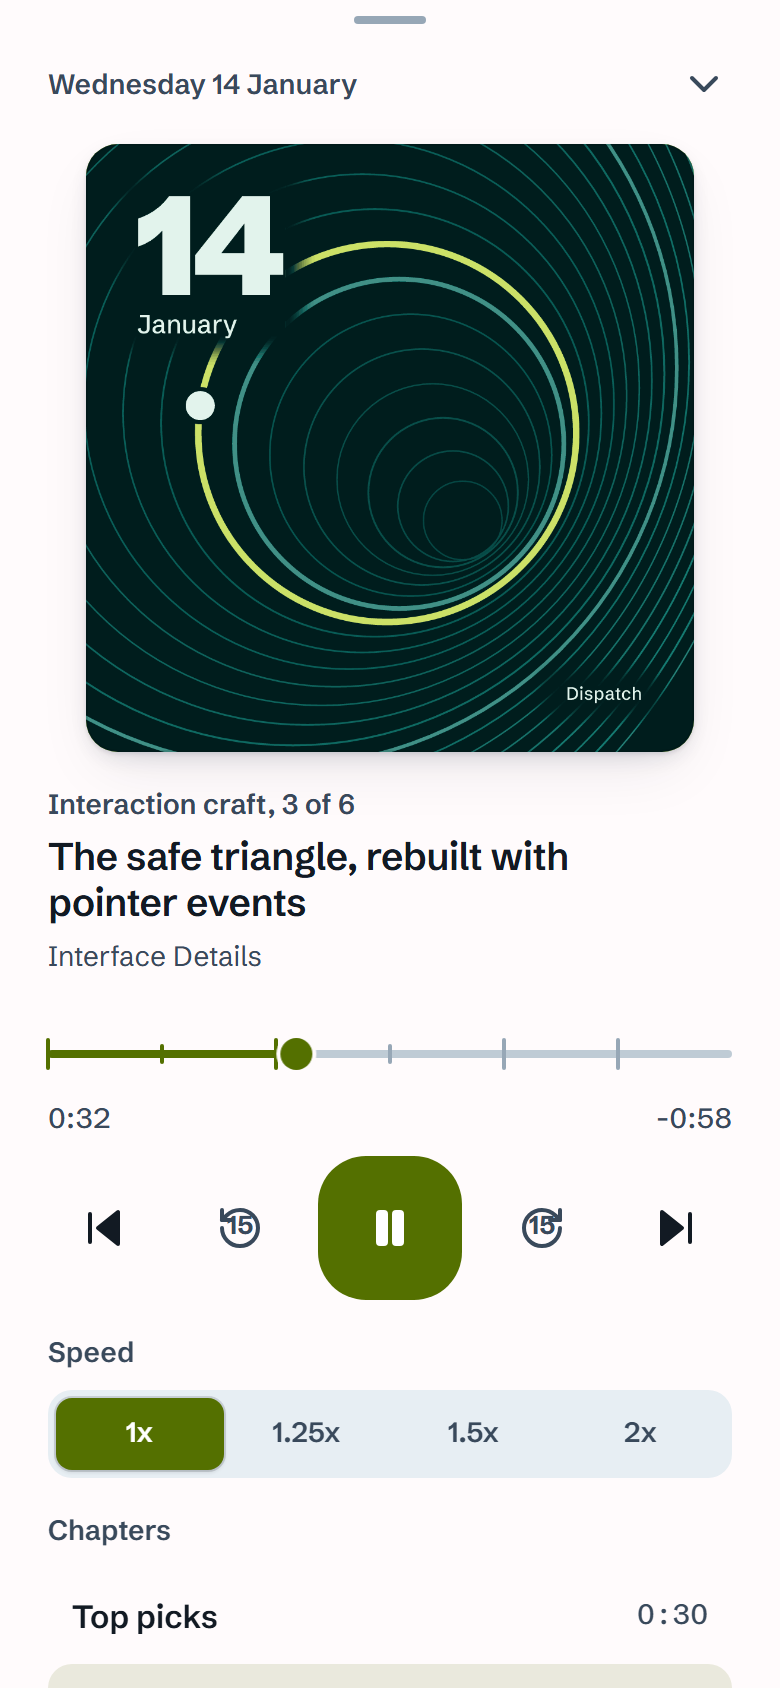
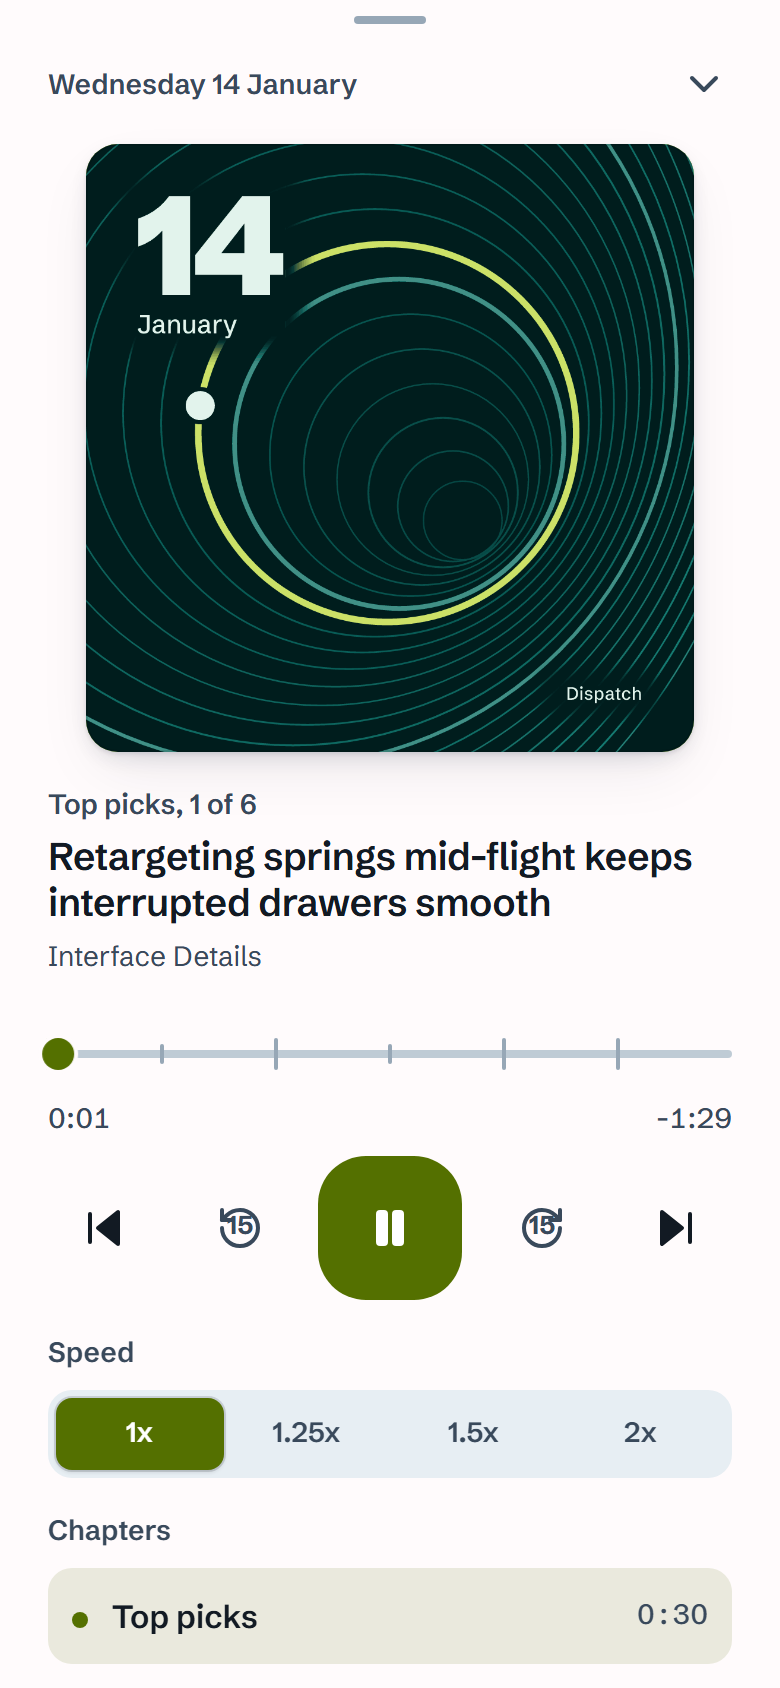
test(web): refresh player screenshots, keep dashes out of test sources

diff --git a/apps/web/src/player/core/digestData.test.ts b/apps/web/src/player/core/digestData.test.ts
@@ -70,7 +70,7 @@ describe("media errors", () => {
   it("keeps every message free of em dashes and exclamation marks", () => {
     for (const code of [2, 3, 4, undefined]) {
       const message = describeMediaError(code, true)?.message ?? "";
-      expect(message).not.toMatch(/[—–!]/);
+      expect(message).not.toMatch(/[\u2014\u2013!]/);
     }
   });
 });

diff --git a/apps/web/src/sheets/generate/generate.test.ts b/apps/web/src/sheets/generate/generate.test.ts
@@ -140,7 +140,7 @@ describe("startGenerate", () => {
   });
 
   it("keeps every message in the voice: no em dashes, no exclamation marks", () => {
-    for (const message of Object.values(MESSAGES)) expect(message).not.toMatch(/[—–!]/);
+    for (const message of Object.values(MESSAGES)) expect(message).not.toMatch(/[\u2014\u2013!]/);
   });
 });
 
